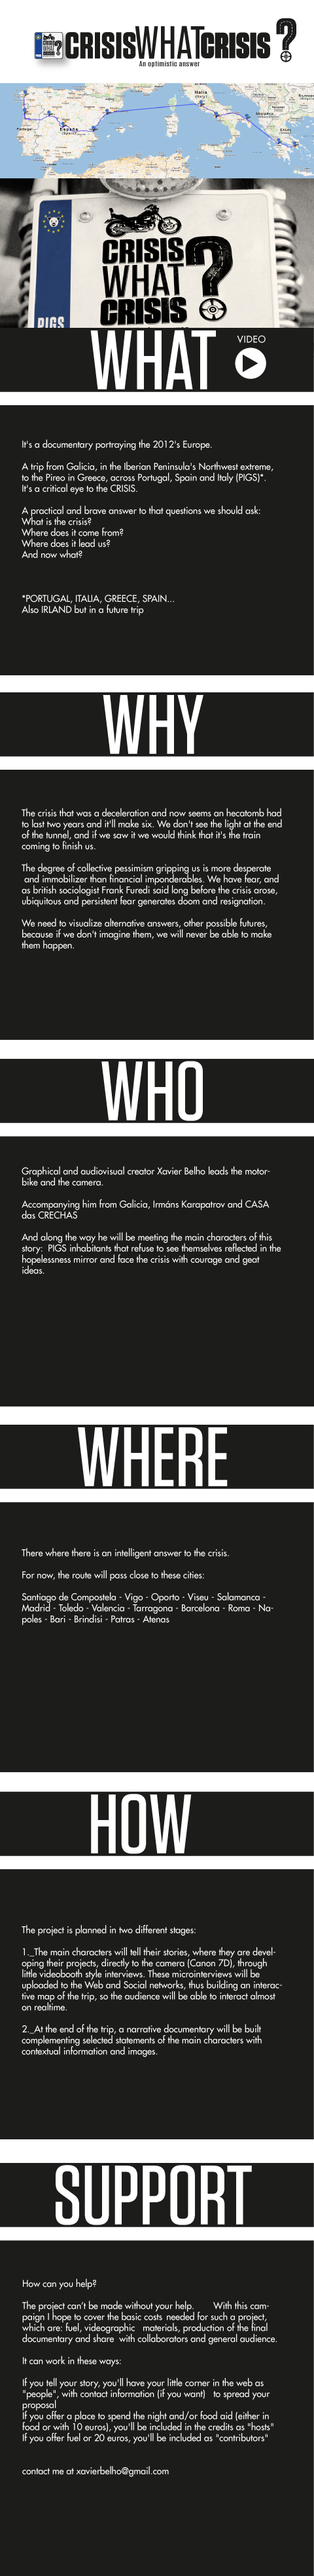
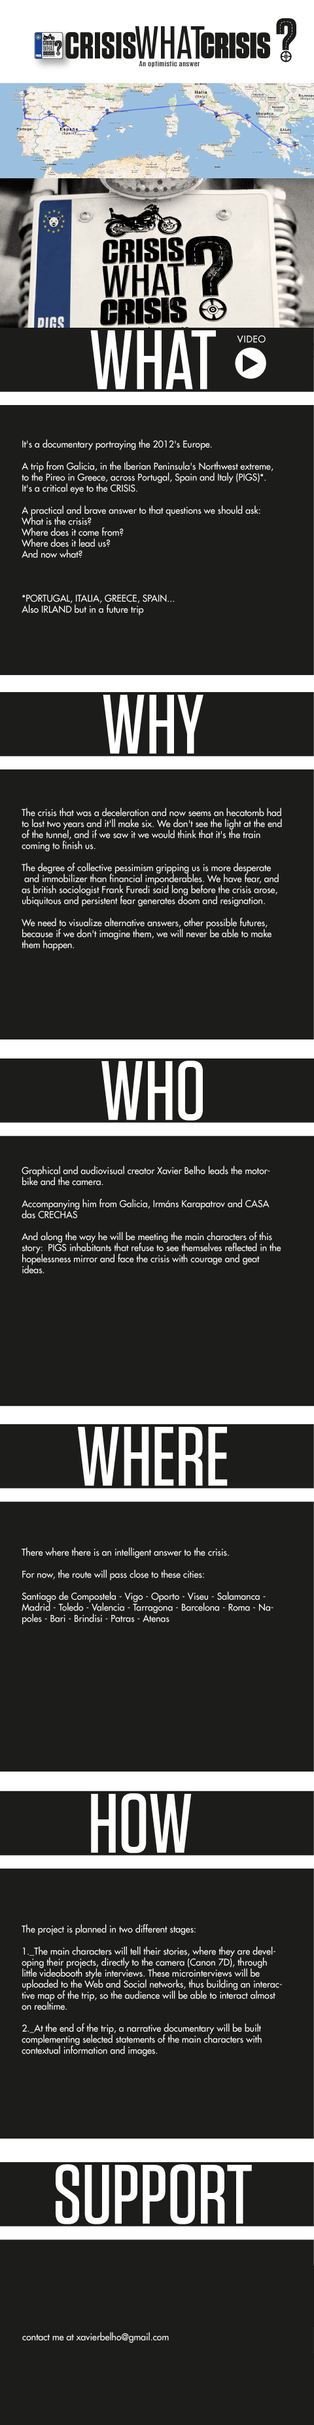
Clean SUPPORT section for mobile

diff --git a/css/mobile.css b/css/mobile.css
@@ -13,19 +13,16 @@
 @media (min-width: 724px) {
 	html { font-size: 29px; }
 	input[type='image'] { width: 375px; }
-	#donate { margin-top: -313px; }
 }
 
 @media (min-width: 780px) {
 	html { font-size: 32px; }
 	input[type='image'] { width: 412px; }
-	#donate { margin-top: -344px; }
 }
 
 @media (min-width: 858px) {
 	html { font-size: 35px; }
 	input[type='image'] { width: 450px; }
-	#donate { margin-top: -375px; }
 }
 
 body {
@@ -41,16 +38,10 @@ img { float: left }
 #mailto {
 	width: 31%;
 	margin-left: 23.5%;
-	margin-top: -35.5%;
+	margin-top: -30%;
 }
 #play_video {
 	width: 12.7%;
 	margin-left: 73.6%;
-	margin-top: -713%;
-}
-#donate {
-	float: right;
-	text-align: center;
-	width: 50%;
-	color: white;
+	margin-top: -665%;
 }

diff --git a/mobile.php b/mobile.php
@@ -24,26 +24,4 @@
 	<a href="http://www.youtube.com/watch?v=ln3tGnzGT9k" target="_blank">
 		<img id="play_video" src="play_video.png" />
 	</a>
-	<div id="donate">
-		<form class="paypal" action="https://www.paypal.com/cgi-bin/webscr" method="post">
-			<input type="hidden" name="cmd" value="_donations">
-			<input type="hidden" name="business" value="project@crisis-whatcrisis.com">
-			<input type="hidden" name="currency_code" value="EUR">
-			<input type="hidden" name="lc" value="ES">
-			<input type="hidden" name="item_name" value="Crisis What Crisis">
-			<input type="hidden" name="no_note" value="0">
-			<input type="hidden" name="bn" value="PP-DonationsBF:btn_donateCC_LG.gif:NonHostedGuest">
-			<input type="hidden" name="return" value="https://twitter.com/intent/tweet?source=webclient&text=I%20support%20Crisis%20What%20Crisis%20@crisisWcrisis%20%23crisisWhatcrisis%20http://www.crisis-whatcrisis.com">
-			<input type="hidden" name="cancel_return" value="http://www.crisis-whatcrisis.com">
-			<input type="image" src="https://www.paypalobjects.com/en_US/i/btn/btn_donateCC_LG.gif" border="0" name="submit" alt="PayPal. The fast and secure way to pay online.">
-			<img alt="" border="0" src="https://www.paypalobjects.com/es_ES/i/scr/pixel.gif" width="1" height="1">
-		</form>
-		<div style="margin-bottom:15px">
-			<p style="text-align:center;margin:0px;">Or transfer to:</p>
-			<p style="text-align:center;margin:0px;font-weight:bold">2080-0395-60-3040002377</p>
-			<p style="text-align:center;margin:0px;">IBAN - ES3320800395603040002377</p>
-			<p style="text-align:center;margin:0px;">Swift/BIC - CAGLESMMXXX</p>
-			<p style="text-align:center;margin:0px;">Novagalicia Banco</p>
-		</div>
-	</div>
 </body>
